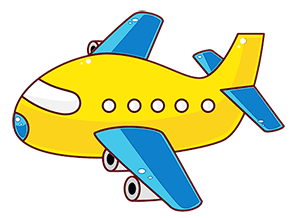
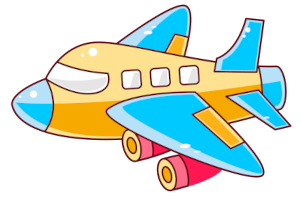
beartified and error fix

diff --git a/components/header.js b/components/header.js
@@ -3,31 +3,29 @@ import Navbar from 'react-bootstrap/Navbar'
 import Nav from 'react-bootstrap/Nav'
 import Button from 'react-bootstrap/Button'
 import styles from './header.module.css'
-import Image from 'react-bootstrap/Image'
 import Link from 'next/link'
+import ReactTypingEffect from 'react-typing-effect';
 
 export default function (){
 
   return (
-    <Navbar fixed="top" variant='dark' expand = 'sm' className={`${styles.navbar} pt-3 pb-3`}>
-      
+    <Navbar fixed="top" variant='dark' expand = 'md' className={`${styles.navbar} pt-3 pb-3`}>
+
       <Link href="/">
-        <Navbar.Brand className = {styles.navbar_img}>
-          <Image
-            src='/assets/img/navbar.jpeg'
-            alt = 'Peng Chen'
-            thumbnail
-          />
+        <Navbar.Brand className = {styles.navbar_brand}>
+          <Button variant="outline-light" className={styles.navbar_btn}>
+            <ReactTypingEffect 
+              text={['Hi, I am Peng.', 'Let\'s make something great!']}
+              typingDelay = {0}
+              eraseDelay = {1500}
+            />
+          </Button>
+          
           </Navbar.Brand>
       </Link>
       <Navbar.Toggle aria-controls="basic-navbar-nav" />
       <Navbar.Collapse id="basic-navbar-nav" className={`justify-content-end align-self-end ${styles.nav_links_all}`}>
         <Nav >
-          <Nav.Item>
-            <Link href="/">
-              <a><Button variant="outline-light" className={styles.navbar_btn}>HOME</Button></a>
-            </Link>
-          </Nav.Item>
           <Link href="/about">
             <a><Button variant="outline-success" className={styles.navbar_btn}>STORY</Button></a>
           </Link>

diff --git a/pages/index.js b/pages/index.js
@@ -2,7 +2,6 @@ import Head from 'next/head'
 import styles from '../styles/home.module.css'
 import Link from 'next/link'
 import ReactTypingEffect from 'react-typing-effect';
-import Header from '../components/header.js'
 
 export default function Home() {
 
@@ -38,22 +37,22 @@ export default function Home() {
               </Link>
             </section>
           </h1>
+          
           <h2 className={styles.text_h2}>
-            <section>
-              <Link href="/blog">
-                <a>
-                  <div className={`${styles.text_color_white} ${styles.on_hover} ${styles.fourth_line}`}>
-                    <span>
-                      <ReactTypingEffect 
-                        text={["a web developer.", "an Army Veteran.", 'a husband and father.']}
-                        typingDelay = {0}
-                        eraseDelay = {1500}
-                      />
-                    </span>
-                  </div>
-                </a>
-              </Link>
-            </section>
+            <Link href="/blog">
+              <a>
+                <div className={`${styles.text_color_white} ${styles.on_hover} ${styles.fourth_line}`}>
+                  <span>
+                    <ReactTypingEffect 
+                      text={["a web developer.", "an Army Veteran.", 'a husband and father.']}
+                      typingDelay = {0}
+                      eraseDelay = {1500}
+                    />
+                  </span>
+                </div>
+              </a>
+            </Link>
+
 
           </h2>
           <div className={styles.click_indication}>Click anything</div>

diff --git a/styles/airplan.module.css b/styles/airplan.module.css
@@ -1,19 +1,22 @@
 .sky{
-  margin-top: 18vh;
+  margin-top: 11vw;
   margin-left: auto;
   margin-right: auto;
   margin-bottom: 3vh;
   width: 60vw;
-  height: 60vh;
+  height: 30vw;
   position: relative;
   background-color: #00ccff;
   overflow-x: hidden;
+  border-radius: 255px 25px 225px 25px/25px 225px 25px 255px;
+  /* padding: 1rem; */
+  border: 0.5rem solid #dee2e6;
 }
 .clouds{
   position: absolute;
   top:5%;
-  height: 25%;
   right: 0;
+  height: 15%;
   width: 500%;
   max-width: 500%;
   background-image: url(/assets/img/clouds.png);
@@ -50,25 +53,29 @@
 
 .airplane{
   top: 25%;
-  left:40%;
+  left:50%;
   position: absolute;
   z-index: 1;
+  width: 20%;
+}
+.airplane img {
+  width: 100%;
 }
   
-.flame{
-  top: -40px;
-  left: 150px;
-  height: 10px;
-  width:60px;
-  position: relative;
+.flame_down{
+  position: absolute;
+  top: 70%;
+  left: 80%;
+  height: 5%;
+  width:30%;
   border-radius: 50%;
   background-color: #ffffff;
   animation: flame 0.3s linear infinite;
-   z-index: -1;
+  z-index: -1;
 }
-.flame2{
-  top: -195px;
-  left: 115px;
+.flame_up{
+  top: 20%;
+  left: 55%;
 }
 @keyframes flame{
   0%{
@@ -79,5 +86,13 @@
   }
   100%{
     transform: translateX(0%);
+  }
+}
+
+@media only screen and (max-width: 767px) {
+  .sky{
+    margin-top: 12vh;
+    width: 80vw;
+    height: 40vw;
   }
 }

diff --git a/components/header.module.css b/components/header.module.css
@@ -1,14 +1,13 @@
 .navbar {
-  max-height: 13vh;
+  /* max-height: 13vh; */
   background-color: black;
 }
 
 
-.navbar_img {
-  max-width: 12vh;
-  min-width: 100px;
-  /* max-width: 10vh; */
-  margin-left: 10%;
+.navbar_brand {
+  /* max-height: 12vh; */
+  /* min-height: 100%; */
+  margin-left: 10vw;
 }
 
 .navbar_btn {
@@ -16,8 +15,53 @@
   font-weight: 500;
   min-width: 9vw;
   font-size: 2vw;
+  margin-right: 0.5rem;
+}
+
+.navbar_btn:hover {
+  animation: bounce 1s infinite alternate;
+  -webkit-animation:bounce .5s cubic-bezier(.5, .6, .6, 1) infinite alternate;
+  -moz-animation:bounce .5s cubic-bezier(.5, .6, .6, 1) infinite alternate;
+  animation:bounce .5s cubic-bezier(.5, .6, .6, 1) infinite alternate;	
+}
+@keyframes bounce {
+  from {
+    transform: translateY(0px);
+  }
+  to {
+    transform: translateY(-8px);
+  }
+  }
+  @-webkit-keyframes bounce {
+  from {
+    transform: translateY(0px);
+  }
+  to {
+    transform: translateY(-8px);
+  }
 }
 
 .nav_links_all {
   margin-right: 10%;
+}
+
+@media only screen and (max-width: 767px) {
+  .navbar_brand {
+    max-height: 6vh;
+    min-height: 6vh;
+    height:6vh;
+    margin-left: 3vw;
+  }
+
+  .navbar_btn {
+    width: 70vw;
+    font-size: 4.2vw;
+    margin-bottom: 1vw;
+  }
+
+  .nav_links_all {
+    margin-left: 3vw;
+    margin-top: 2vw;
+  }
+
 }

diff --git a/pages/about.js b/pages/about.js
@@ -23,8 +23,8 @@ export default function Home() {
 
           <div className={airplan.airplane}>
             <img src="/assets/img/airplane.png" />
-            <div className={airplan.flame}></div>
-            <div className={`${airplan.flame} ${airplan.flame2}`}></div>
+            <div className={airplan.flame_down}></div>
+            <div className={`${airplan.flame_up} ${airplan.flame_down}`}></div>
           </div>
           <div className={airplan.mountains}></div>
         </div>

diff --git a/styles/home.module.css b/styles/home.module.css
@@ -128,6 +128,9 @@
   .text_h2 {
     font-size: 12vw;
   }
+  .text_h2 span{
+    color: red;
+  }
   .background{
     background-image: url(/assets/img/background_narrow.jpeg);
     background-position: bottom;
@@ -137,6 +140,8 @@
   }
 
   .click_indication {
-    margin-bottom: 30vh;
+    position: relative;
+    top: 5vh;
+    color: red;
   }
 }

diff --git a/styles/about.module.css b/styles/about.module.css
@@ -32,3 +32,11 @@
   display: block;
   margin-bottom: 2vw;
 }
+
+@media only screen and (max-width: 767px) {
+  .bio{
+    font-size: 3vh;
+    letter-spacing: 2px;
+    margin-bottom: 15vh;
+  }
+}
